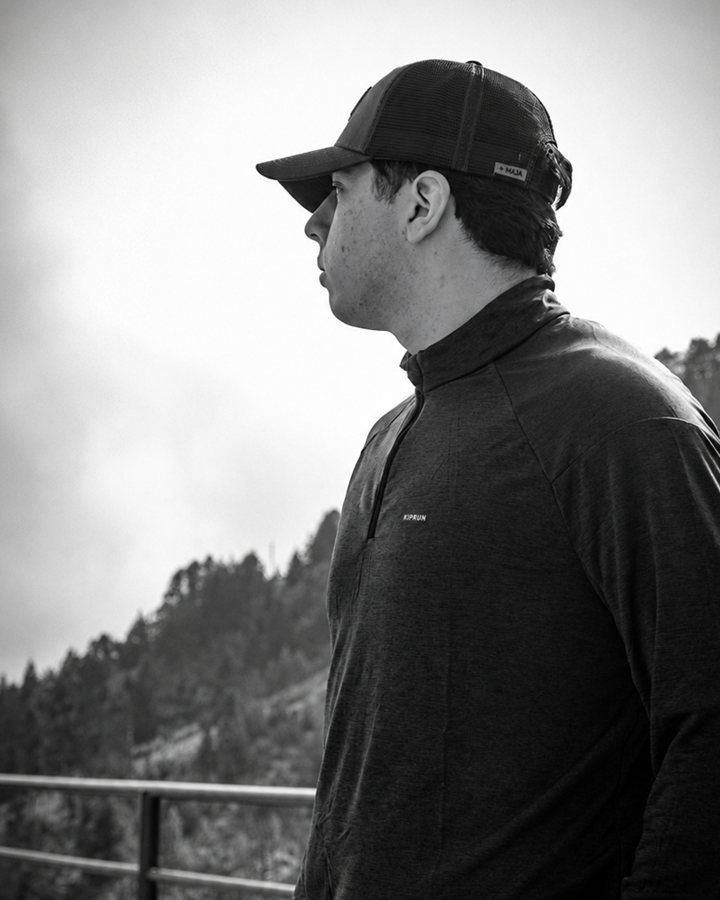
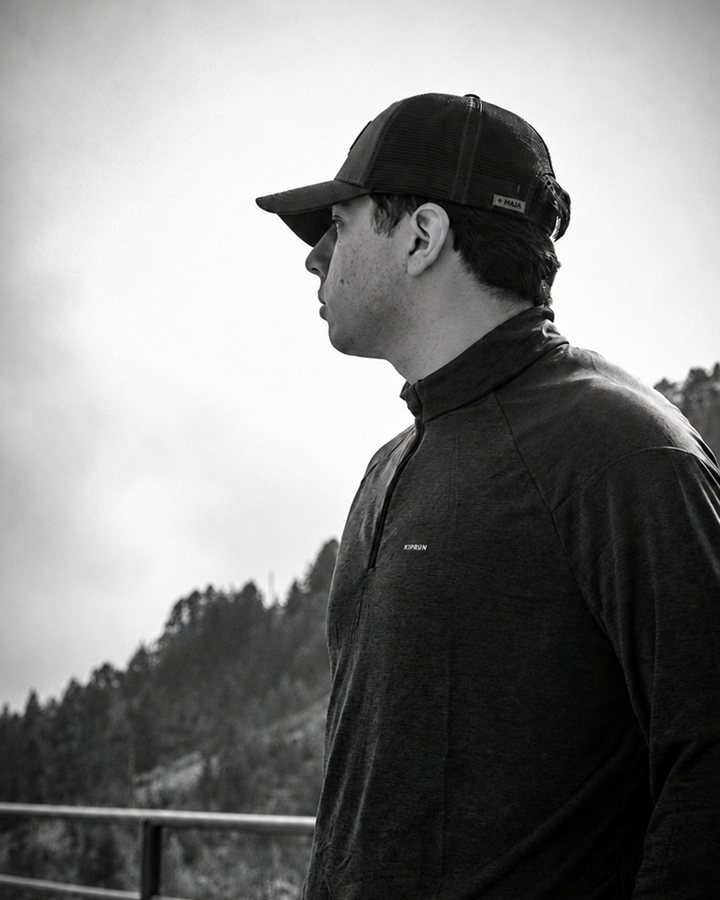
Fotos definitivas de Sobre mí y cursor personalizado con inversión

Changed region(s): [[0.0, 0.0622, 1.0, 1.0]]

diff --git a/src/components/ui/Cursor.jsx b/src/components/ui/Cursor.jsx
@@ -1,0 +1,74 @@
+import { useEffect, useState } from "react";
+import { motion, useMotionValue, useSpring, useReducedMotion } from "motion/react";
+
+// Cursor personalizado: un punto que sigue al puntero de inmediato y
+// un aro con retardo suave. Sobre elementos interactivos el aro crece
+// y se rellena; con mix-blend-difference invierte lo que hay debajo,
+// en línea con el lenguaje de inversión blanco/negro del sitio.
+// Solo se activa con puntero de precisión (mouse) y respeta
+// prefers-reduced-motion; en táctil no se renderiza.
+export function Cursor() {
+  const reduceMotion = useReducedMotion();
+  const [enabled, setEnabled] = useState(false);
+  const [visible, setVisible] = useState(false);
+  const [active, setActive] = useState(false);
+
+  const x = useMotionValue(-100);
+  const y = useMotionValue(-100);
+  const ringX = useSpring(x, { stiffness: 400, damping: 40, mass: 0.8 });
+  const ringY = useSpring(y, { stiffness: 400, damping: 40, mass: 0.8 });
+
+  useEffect(() => {
+    if (reduceMotion || !window.matchMedia("(pointer: fine)").matches) return undefined;
+
+    setEnabled(true);
+    document.documentElement.classList.add("custom-cursor");
+
+    const handleMove = (event) => {
+      x.set(event.clientX);
+      y.set(event.clientY);
+      setVisible(true);
+    };
+    const handleOver = (event) => {
+      setActive(Boolean(event.target.closest("a, button, input, textarea, select, label")));
+    };
+    const handleLeave = () => setVisible(false);
+
+    window.addEventListener("pointermove", handleMove, { passive: true });
+    window.addEventListener("pointerover", handleOver, { passive: true });
+    document.documentElement.addEventListener("pointerleave", handleLeave);
+
+    return () => {
+      document.documentElement.classList.remove("custom-cursor");
+      window.removeEventListener("pointermove", handleMove);
+      window.removeEventListener("pointerover", handleOver);
+      document.documentElement.removeEventListener("pointerleave", handleLeave);
+    };
+  }, [reduceMotion, x, y]);
+
+  if (!enabled) return null;
+
+  return (
+    <>
+      <motion.div
+        aria-hidden="true"
+        style={{ x, y }}
+        animate={{ opacity: visible ? 1 : 0 }}
+        transition={{ duration: 0.15 }}
+        className="pointer-events-none fixed top-0 left-0 z-[100] -ml-1 -mt-1 h-2 w-2 rounded-full bg-pure mix-blend-difference"
+      />
+      <motion.div
+        aria-hidden="true"
+        style={{ x: ringX, y: ringY }}
+        animate={{
+          opacity: visible ? 1 : 0,
+          scale: active ? 1.8 : 1,
+        }}
+        transition={{ opacity: { duration: 0.15 }, scale: { type: "spring", stiffness: 350, damping: 25 } }}
+        className={`pointer-events-none fixed top-0 left-0 z-[100] -ml-[18px] -mt-[18px] h-9 w-9 rounded-full mix-blend-difference transition-colors duration-200 ${
+          active ? "bg-pure" : "border border-pure/70"
+        }`}
+      />
+    </>
+  );
+}

diff --git a/src/index.css b/src/index.css
@@ -38,6 +38,16 @@ body {
   color: var(--color-ink);
 }
 
+/* Con el cursor personalizado activo se oculta el nativo, excepto en
+   campos de texto donde el I-beam ayuda a la precisión */
+.custom-cursor,
+.custom-cursor a,
+.custom-cursor button,
+.custom-cursor label,
+.custom-cursor select {
+  cursor: none;
+}
+
 /* Visible keyboard focus, consistent with the inversion language */
 :focus-visible {
   outline: 2px solid var(--color-paper);

diff --git a/src/App.jsx b/src/App.jsx
@@ -1,3 +1,4 @@
+import { Cursor } from "./components/ui/Cursor.jsx";
 import { Navbar } from "./components/layout/Navbar.jsx";
 import { Footer } from "./components/layout/Footer.jsx";
 import { Hero } from "./components/sections/Hero.jsx";
@@ -11,6 +12,7 @@ import { Contact } from "./components/sections/Contact.jsx";
 export default function App() {
   return (
     <div id="top">
+      <Cursor />
       <Navbar />
       <main id="main">
         <Hero />